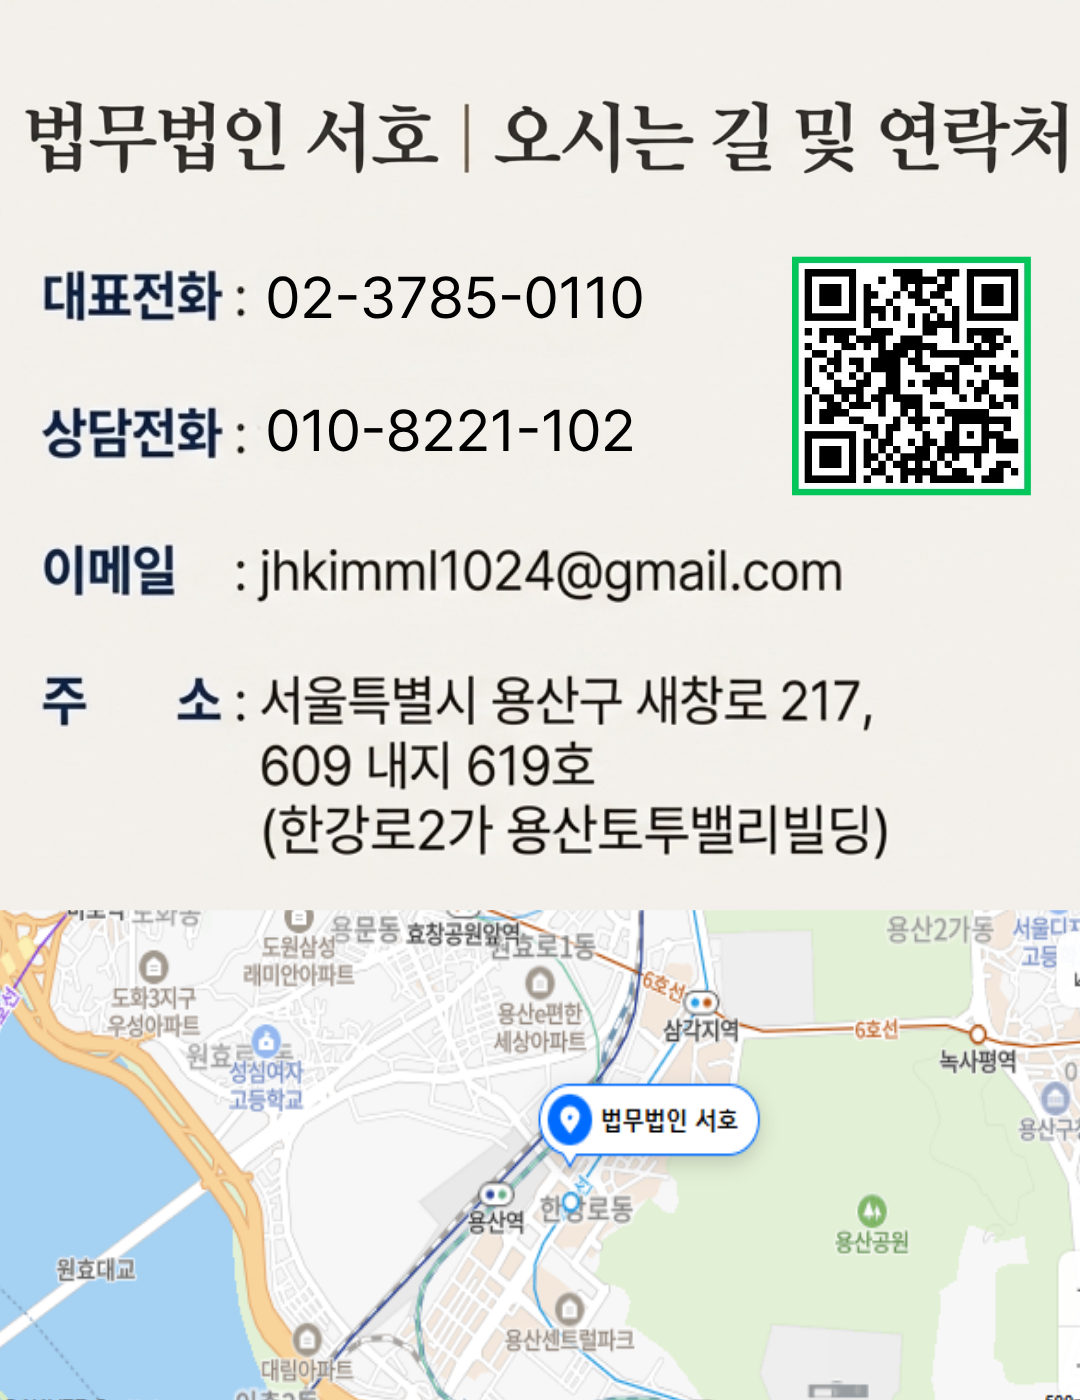
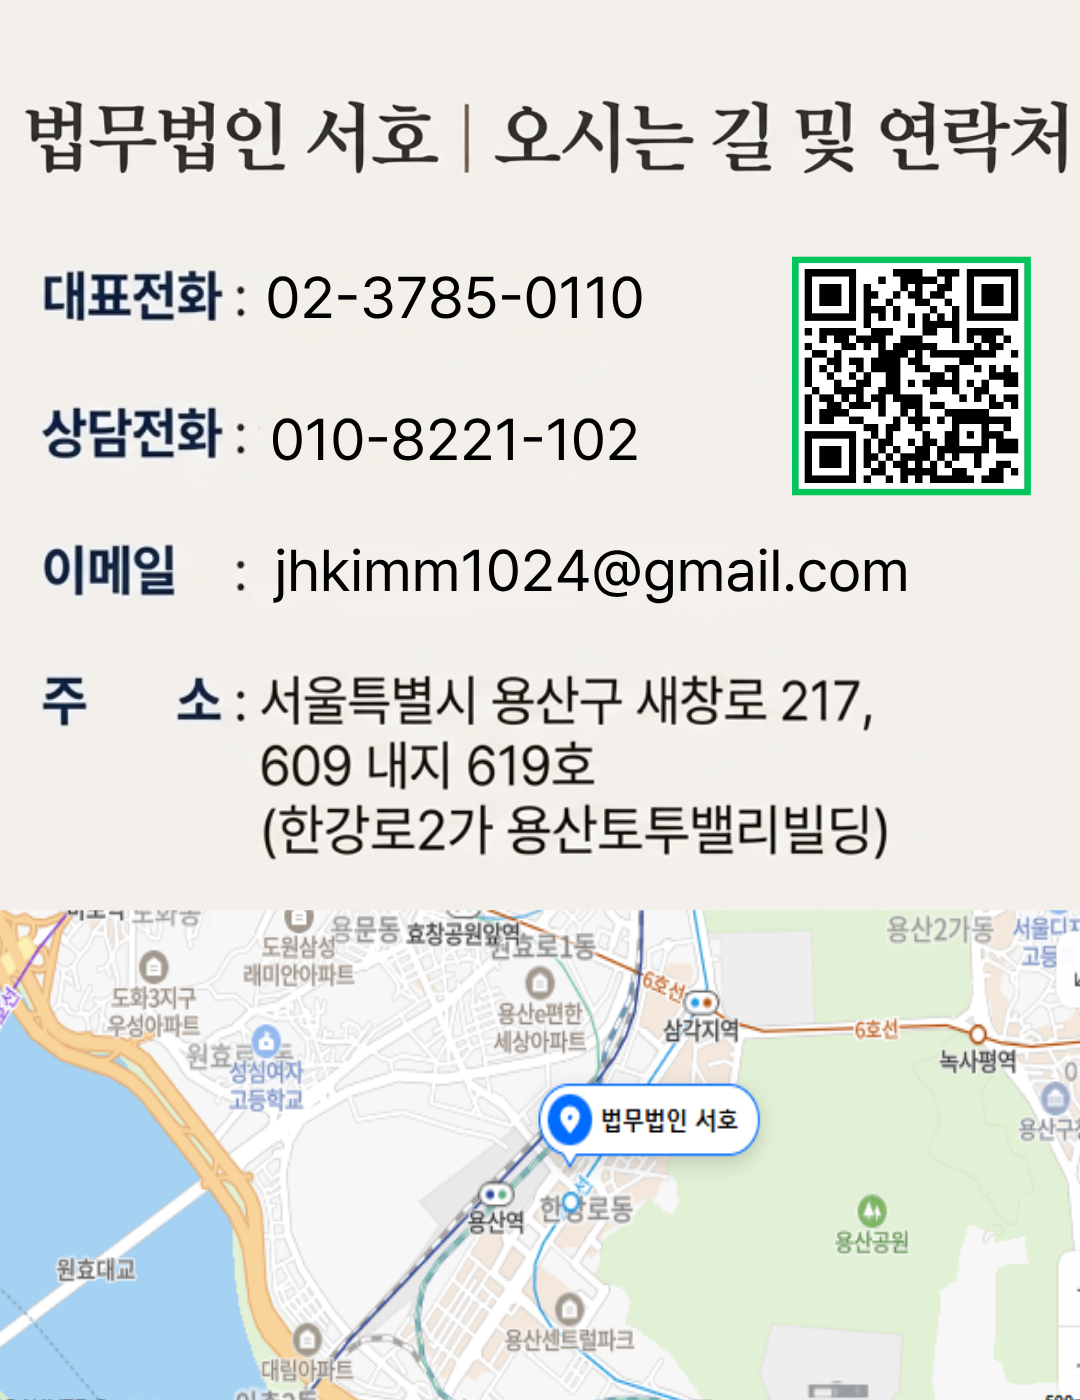
s

Changed region(s): [[0.2444, 0.3686, 0.8556, 0.43], [0.2444, 0.2764, 0.6111, 0.3379]]

diff --git a/index.html b/index.html
@@ -150,13 +150,13 @@
                         <strong>상담전화</strong> 010.8221.1029
                     </div>
                     <div class="footer-info-item">
-                        <strong>이메일</strong> jhkimml1024@gmail.com
+                        <strong>이메일</strong> jhkimm1024@gmail.com
                     </div>
                 </div>
             </div>
         </div>
         <div class="footer-bottom">
-            <p>&copy; 2024 법무법인 서호. All rights reserved.</p>
+            <p>&copy; 법무법인 서호. All rights reserved.</p>
         </div>
     </footer>
 
